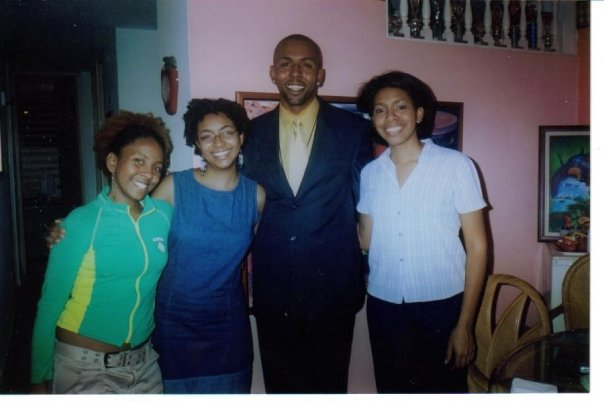
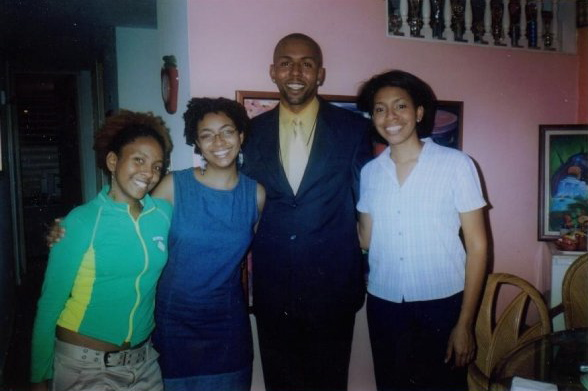
some adjustments were made.

diff --git a/index.html b/index.html
@@ -6,45 +6,40 @@
 	 
 	<title> Gautier Creations </title>
 	<!-- Branding and Logo-->
-	<link rel="stylesheet" href="css/main.css">		
+	<link rel="stylesheet" href="css/main.css">	
+		
 <body> 
-	<h1><a	href="http://www.google.com"> Gautier Creations</a></h1> 
+	<a href="http://www.google.com"> Gautier Creations</a> 
+	<a href="Gallery.html">Gallery</a>
+	<a href="Meet_the_Brothers.html">Meet the Brothers</a>
+	<a href="Join_us.html">Join Us</a>
+	<a href="offers.html">Offers</a>	
 	<section>
 	<!-- Main Site Navigation-->	
 	<h2 class="demo"> Welcome to Gautier Creations where the works and talents of me and my sisters are showed and offered to whomever wants to enjoy them.
 	Here we will show some of our best jobs and what we can offer as a family of artists and public designers. So we welcome you to enjoy our site
 	and leave us comments, ideas and opinions. Thank you for visiting us.</h2>
+	
+	<p class="small_intro">Lorem ipsum dolor sit amet, consectetur adipiscing elit. Morbi massa dolor, malesuada quis bibendum eu, tristique ac erat. Vivamus sed commodo nibh. In molestie, justo iaculis sodales feugiat, ligula ligula condimentum nibh, rhoncus aliquet velit quam eu nisi. Duis erat elit, posuere vitae congue vitae, pharetra eget mi. Aenean ornare diam vehicula turpis hendrerit at tincidunt libero lacinia. In eu nunc sed libero porta ullamcorper ac sit amet nisi. Donec mattis congue nisi, pellentesque vestibulum tellus adipiscing nec.
+
+Vestibulum viverra velit tellus, eget luctus mauris. Etiam porta ipsum eu felis semper venenatis. Donec aliquam orci ut metus fermentum porta. Quisque et eros nec massa ultricies facilisis. Suspendisse viverra, mi a fermentum euismod, turpis tellus aliquam enim, sed vulputate leo risus non lectus. Aenean imperdiet porta est sed porttitor. Vestibulum ante ipsum primis in faucibus orci luctus et ultrices posuere cubilia Curae; Donec elit felis, gravida id cursus a, scelerisque nec odio. Maecenas sed nibh tortor.</p>
+
+	<p class="what_we_offer">Lorem ipsum dolor sit amet, consectetur adipiscing elit. Morbi massa dolor, malesuada quis bibendum eu, tristique ac erat. Vivamus sed commodo nibh. In molestie, justo iaculis sodales feugiat, ligula ligula condimentum nibh, rhoncus aliquet velit quam eu nisi. Duis erat elit, posuere vitae congue vitae, pharetra eget mi. Aenean ornare diam vehicula turpis hendrerit at tincidunt libero lacinia. In eu nunc sed libero porta ullamcorper ac sit amet nisi. Donec mattis congue nisi, pellentesque vestibulum tellus adipiscing nec.
+
+Vestibulum viverra velit tellus, eget luctus mauris. Etiam porta ipsum eu felis semper venenatis. Donec aliquam orci ut metus fermentum porta. Quisque et eros nec massa ultricies facilisis. Suspendisse viverra, mi a fermentum euismod, turpis tellus aliquam enim, sed vulputate leo risus non lectus. Aenean imperdiet porta est sed porttitor. Vestibulum ante ipsum primis in faucibus orci luctus et ultrices posuere cubilia Curae; Donec elit felis, gravida id cursus a, scelerisque nec odio. Maecenas sed nibh tortor.</p>
  <nav>
-	<div id="wrapper"><a href="Elias.html">Elias</a>
+	
 
-	 <p class="small bio" id="intro_paragraph">Graduated from the <strong>Central High Arts School</strong> in <span>Santurce Puerto Rico</span> in 1998, Elias likes to get his ideas straight from his mind and do his best
-	in creating the job. Here in his girl at the beach, the paint has a funny story. Elias painted the girl just with a nice small bikini and when he brought 
-	the art to his teacher, she said it was a wonderful job, but too strong for a high school kid so she ask Elias to paint the skirt on the girl.
-	Funny thing is that the girl that Elias painted from his mind looks exactly like his wife.. maybe it was destiny.</p></div>	 
-	 	
-	<div id="wrapper1"><a href="Carelis.html">Carelis</a>
-	 
-    <p class="small bio">Like her brother, Carelis also graduated from <strong>Central High Arts School</strong> and took herself through the art world in a special way.
-    This paint here by Carelis represented Puerto Rico for a year at the U.S. congress as part of an art Expo. Carelis painted the piece overnight
-    just being responsible with her duties and deliver her job. Amazing that just a simple paint of a beach will represent the island in such an important
-    place.</p></div>
-     
-	<div id="wrapper2"><a href="Saelis.html">Saelis</a>
-	 
-	<p class="small bio">Like her brothers from he same schooll Saelis developed herself in the public design enviroment. With a very stron attitude
-	Saelis likes to deliver a clean job at the right time. Here is an example she worked on for her brother (me) for an idea I had
- 	a long time ago but I always kept it as an example of how fast she can work an idea. Only took her some minutes.</p></div>
-	 			
-	<div id="wrapper3"><a href="Elianis.html">Elianis</a>
-
- 	 <p class="small bio">Last but not least my sister Elianis that being the younger one, took a litle bit of her brothers and create a great strong talent	
-  	for paint. Also, love the way she look for inspiration for her jobs. In this self-portrait with three posses of her and you can see
- 	the detail on her face and the expresion. It looks like a huge printing picture poster.</p></div> 
  
  </nav> 
 </section>	 
-	<img src="images/brothers.jpg" width="604" height="402" alt="Brothers" title=Brothers>
-	
+	<img src="images/brothers.jpg" width="588" height="391" alt="Brothers" title=Brothers>
+<div>
+	<a href="Elias.html">Elias</a>
+	<a href="Carelis.html">Carelis</a>
+	<a href="Saelis.html">Saelis</a>
+	<a href="Elianis.html">Elianis</a>
+</div>
 	<h2 class="demo2"> What can we do for you</h2>
 <ul>
 	<li>Painting;(oils,acrylic,watercolor)</li>
@@ -84,9 +79,9 @@
 	
 	
 	
-	
-	
-	
+	<h5>Privacy Policy</h5>
+	<h5>Gallery</h5>
+	<h5>Join us</h5>
 	<h5>Contact us</h5>  			
 	<h5>Terms of use</h5>  	
 		

diff --git a/css/main.css b/css/main.css
@@ -1,11 +1,6 @@
-wrapper,wrapper1,wrapper2,wrapper3{
-	margin:0;
-	width:1000px;
-	padding:20px;
-}
-p{
-	margin:0;
-}
+
+
+
 
 body{
 	background-color:#d6d7d8;
@@ -17,20 +12,26 @@ body{
 }
 h1{
 background-color:#a3a3a5;
-border:5px solid black;
+border:1px solid black;
 color:white;
 width:300px;
-border-radius:5px;
+border-radius:2px;
 text-align:justify;
-padding:5px;
+padding:2px;
 text-indent:30px;
+-moz-box-shadow:5px 5px 5px black;
+	-webkit-box-shadow:5px 5px 5px black;
+	-ms-box-shadow:5px 5px 5px black;
+	-o-box-shadow:5px 5px 5px black;
+	-khtml-box-shadow:5px 5px 5px black;
+	box-shadow:5px 5px 5px black;
 }
 
 img{
 		
-	border:5px solid black;
-	border-radius:10px;
-	padding:20px;
+	border:2px solid black;
+	border-radius:2px;
+	padding:1px;
 	-moz-box-shadow:5px 5px 5px black;
 	-webkit-box-shadow:5px 5px 5px black;
 	-ms-box-shadow:5px 5px 5px black;
@@ -41,8 +42,8 @@ img{
 	}
 .demo{
 	background-color:#7d7d7d;
-	border:3px solid black;
-	border-radius:5px;
+	border:1px solid black;
+	border-radius:2px;
 	-moz-box-shadow:5px 5px 5px black;
 	-webkit-box-shadow:5px 5px 5px black;
 	-ms-box-shadow:5px 5px 5px black;
@@ -55,8 +56,8 @@ img{
 	}
 .demo1{
 	background-color:#7d7d7d;
-	border:3px solid black;
-	border-radius:5px;
+	border:1px solid black;
+	border-radius:2px;
 	width:275px;
 	-moz-box-shadow:5px 5px 5px black;
 	-webkit-box-shadow:5px 5px 5px black;
@@ -71,8 +72,8 @@ img{
 }
 .demo2{
 	background-color:#7d7d7d;
-	border:3px solid black;
-	border-radius:5px;
+	border:1px solid black;
+	border-radius:2px;
 	width:275px;
 	-moz-box-shadow:5px 5px 5px black;
 	-webkit-box-shadow:5px 5px 5px black;
@@ -92,52 +93,9 @@ ul{
 }
 
 
-#wrapper{
-text-indent: 30px;
-text-align: justify;
-width:1000px;
-background-color:#7d7d7d;
-border:2px solid black;
-padding:5px;
-margin:10px;
-
-
-}
-#wrapper1{
-text-indent: 30px;
-text-align: justify;
-width:1000px;
-background-color:#7d7d7d;
-border:2px solid black;
-padding:5px;
-margin:10px;
-
-
-}
-#wrapper2{
-text-indent: 30px;
-text-align: justify;
-width:1000px;
-background-color:#7d7d7d;
-border:2px solid black;
-padding:5px;
-margin:10px;
 
 
 
-}
-#wrapper3{
-text-indent: 30px;
-text-align: justify;
-width:1000px;
-background-color:#7d7d7d;
-border:2px solid black;
-padding:5px;
-margin:10px;
-
-
-
-}
 
 
 

diff --git a/Elias.html b/Elias.html
@@ -7,4 +7,9 @@ Nunc neque enim, fringilla blandit consequat eu, rutrum sed ipsum. Curabitur pel
 
 Pellentesque tortor neque, malesuada molestie suscipit tristique, auctor eget libero. Vivamus sollicitudin nulla quis nisi congue porttitor. Vivamus vel erat at felis eleifend vestibulum quis quis tortor. Maecenas eget ante dui. Suspendisse id nulla in nisl lacinia adipiscing. Nullam auctor blandit lacus, in egestas sapien tristique non. Nullam nec purus non purus porttitor ultrices. Nulla vitae hendrerit est. Mauris imperdiet, tortor sit amet bibendum mattis, erat erat volutpat sem, id pellentesque massa ante ac ligula. Vivamus ac ullamcorper eros.
 
-Fusce id est sed nisi tincidunt sollicitudin. Nam lacinia tempus sapien, vel lacinia erat imperdiet ut. Maecenas vitae ultricies libero. Vivamus eu nisl arcu, nec vehicula dui. Pellentesque rutrum sollicitudin odio et vulputate. Sed tempus semper leo non porta. Fusce neque ligula, sodales in tincidunt a, dignissim id nunc.
+Fusce id est sed nisi tincidunt sollicitudin. Nam lacinia tempus sapien, vel lacinia erat imperdiet ut. Maecenas vitae ultricies libero. Vivamus eu nisl arcu, nec vehicula dui. Pellentesque rutrum sollicitudin odio et vulputate. Sed tempus semper leo non porta. Fusce neque ligula, sodales in tincidunt a, dignissim id nunc.</p>
+
+<p>	Graduated from the <strong>Central High Arts School</strong> in <span>Santurce Puerto Rico</span> in 1998, Elias likes to get his ideas straight from his mind and do his best
+	in creating the job. Here in his girl at the beach, the paint has a funny story. Elias painted the girl just with a nice small bikini and when he brought 
+	the art to his teacher, she said it was a wonderful job, but too strong for a high school kid so she ask Elias to paint the skirt on the girl.
+	Funny thing is that the girl that Elias painted from his mind looks exactly like his wife.. maybe it was destiny.</p>

diff --git a/Carelis.html b/Carelis.html
@@ -1,1 +1,6 @@
-    <img src="images/Carelis.jpg" width="2048" height="1536" alt="Carelis paint" title=Carelis>
+    <img src="images/Carelis.jpg" width="500" height="500" alt="Carelis paint" title=Carelis>
+    
+    <p>Like her brother, Carelis also graduated from <strong>Central High Arts School</strong> and took herself through the art world in a special way.
+    This paint here by Carelis represented Puerto Rico for a year at the U.S. congress as part of an art Expo. Carelis painted the piece overnight
+    just being responsible with her duties and deliver her job. Amazing that just a simple paint of a beach will represent the island in such an important
+    place.</p>

diff --git a/Elianis.html b/Elianis.html
@@ -1,1 +1,4 @@
- 	<img src="images/Elianis.jpg" width="699" height="1204" alt=" photo of Elianis paint" title=Elianis>
+ 	<img src="images/Elianis.jpg" width="500" height="700" alt=" photo of Elianis paint" title=Elianis>
+<p>Last but not least my sister Elianis that being the younger one, took a litle bit of her brothers and create a great strong talent	
+  	for paint. Also, love the way she look for inspiration for her jobs. In this self-portrait with three posses of her and you can see
+ 	the detail on her face and the expresion. It looks like a huge printing picture poster.</p>

diff --git a/Saelis.html b/Saelis.html
@@ -1,1 +1,5 @@
-	<img src="images/Saelis.jpg" width="324" height="299" alt="Saelis paint" title=Saelis>
+	<img src="images/Saelis.jpg" width="400" height="400" alt="Saelis paint" title=Saelis>
+	
+	<p>Like her brothers from he same schooll Saelis developed herself in the public design enviroment. With a very stron attitude
+	Saelis likes to deliver a clean job at the right time. Here is an example she worked on for her brother (me) for an idea I had
+ 	a long time ago but I always kept it as an example of how fast she can work an idea. Only took her some minutes.</p>
